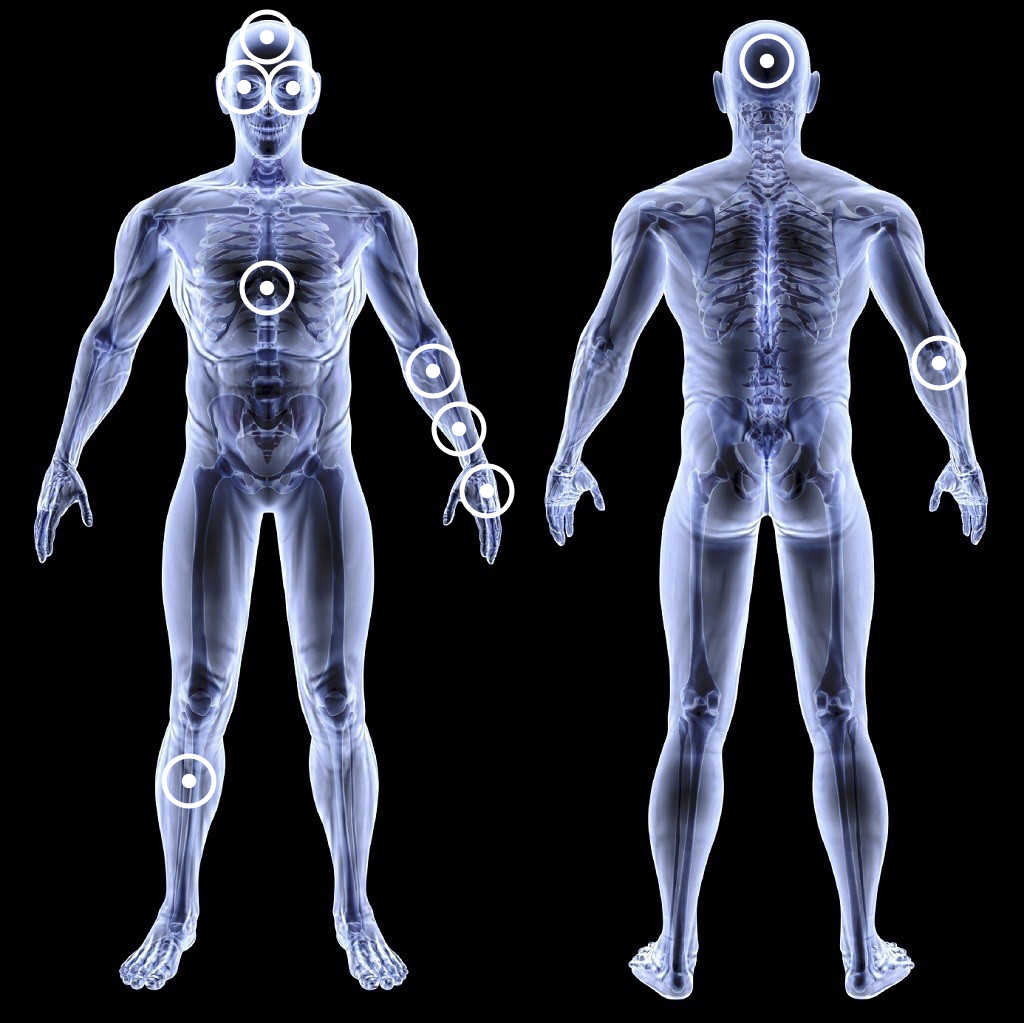
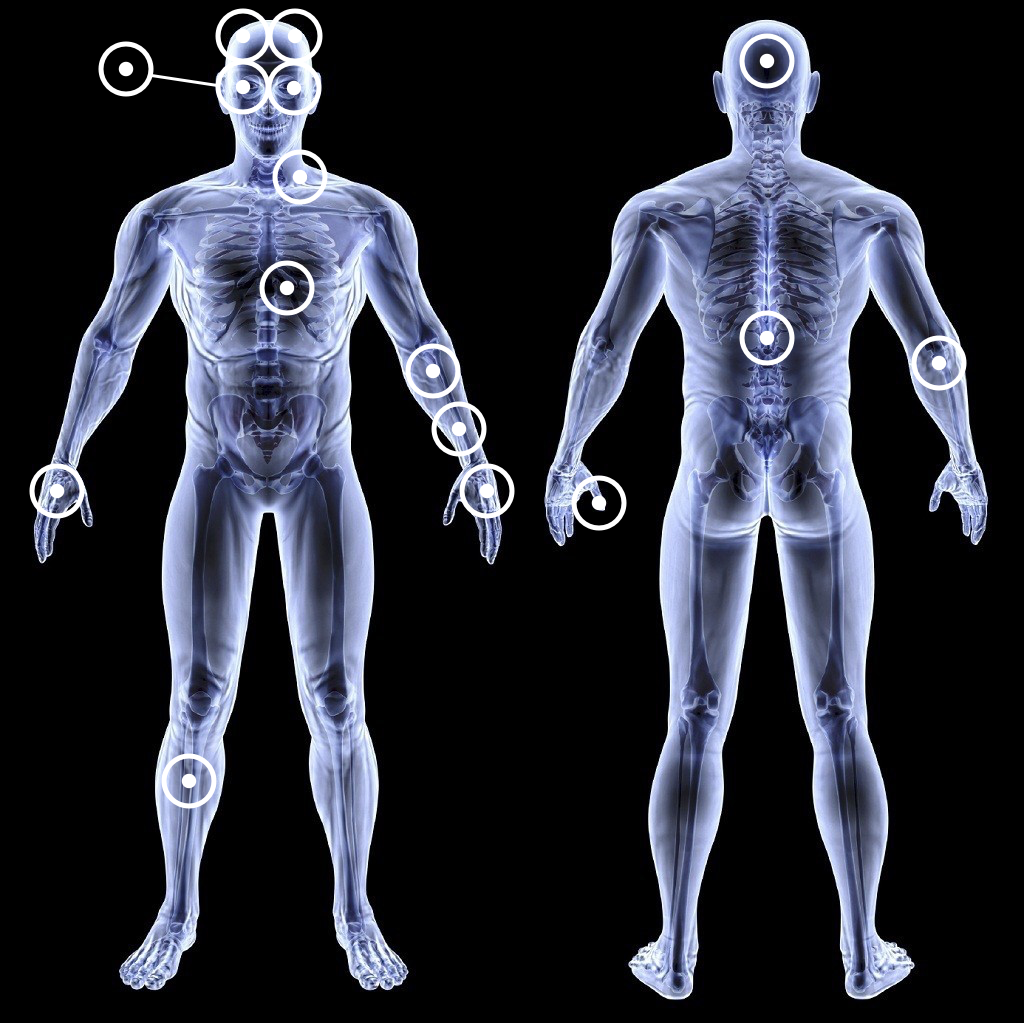
Add new parts to cyborg

diff --git a/index.html b/index.html
@@ -141,91 +141,185 @@
           <figure>
             <img src="img/human-map.png" id="human-map" usemap="#humanMap" />
             <map name="humanMap">
-              <area href="#" data-tooltip-content="#tooltip-brain" coords="240,8,294,61" shape="rect">
-              <area href="#" data-tooltip-content="#tooltip-right-eye" coords="217,62,268,114" shape="rect">
-              <area href="#" data-tooltip-content="#tooltip-left-eye" coords="269,114,320,62" shape="rect">
-              <area href="#" data-tooltip-content="#tooltip-blood" coords="240,316,294,260" shape="rect">
+              <area href="#" data-tooltip-content="#tooltip-eyes1" coords="217,62,268,114" shape="rect">
+              <area href="#" data-tooltip-content="#tooltip-eyes2" coords="269,114,320,62" shape="rect">
+              <area href="#" data-tooltip-content="#tooltip-right-eye" coords="99,42,153,96" shape="rect">
               <area href="#" data-tooltip-content="#tooltip-left-underarm" coords="405,342,460,398" shape="rect">
               <area href="#" data-tooltip-content="#tooltip-left-underarm2" coords="431,456,486,402" shape="rect">
               <area href="#" data-tooltip-content="#tooltip-left-backhand" coords="460,518,514,463" shape="rect">
               <area href="#" data-tooltip-content="#tooltip-right-lowerleg" coords="162,808,217,754" shape="rect">
               <area href="#" data-tooltip-content="#tooltip-back-head" coords="739,89,795,32" shape="rect">
+              <area href="#" data-tooltip-content="#tooltip-brain1" coords="216,8,268,61" shape="rect">
+              <area href="#" data-tooltip-content="#tooltip-brain2" coords="269,62,323,8" shape="rect">
               <area href="#" data-tooltip-content="#tooltip-right-elbow" coords="909,391,968,334" shape="rect">
+              <area href="#" data-tooltip-content="#tooltip-skin" coords="30,464,85,518" shape="rect">
+              <area href="#" data-tooltip-content="#tooltip-heart" coords="259,259,315,316" shape="rect">
+              <area href="#" data-tooltip-content="#tooltip-blood" coords="273,149,327,205" shape="rect">
+              <area href="#" data-tooltip-content="#tooltip-spinal-cord" coords="739,310,795,366" shape="rect">
+              <area href="#" data-tooltip-content="#tooltip-fingertips" coords="571,531,627,475" shape="rect">
             </map>
             <div class="tooltip-templates">
               <span id="tooltip-right-elbow">
                 <img src="img/right-elbow.png" />
                 <div>
                   <h3>Moon Ribas</h3>
-                  <p>Online seismic sensor in elbow that allows to feel earthquakes through vibrations.</p>
+                  <p>
+                    Online seismic sensor in elbow that allows to feel earthquakes through vibrations.
+                    <a href="http://www.moonribas.com" target="_blank">www.moonribas.com</a>
+                  </p>
                 </div>
               </span>
               <span id="tooltip-back-head">
                 <img src="img/back-head.png" />
                 <div>
                   <h3>Neil Harbisson</h3>
-                  <p>Antenna implanted in skull to hear colors. It also includes measurements of electromagnetic radiation, phone calls, music, as well as video or images which are translated into sound.</p>
+                  <p>
+                    Antenna implanted in skull to hear colors. It also includes measurements of electromagnetic radiation, phone calls, music, as well as video or images which are translated into sound.
+                    <a href="http://harbisson.com" target="_blank">www.harbisson.com</a>
+                  </p>
                 </div>
               </span>
               <span id="tooltip-left-underarm">
                 <img src="img/left-underarm.png" />
                 <div>
                   <h3>Tim Cannon</h3>
-                  <p>Grindhouse-designed biometric sensor known as Circadia. The device automatically sent Cannon's temperature to his phone, was powered wirelessly through inductive charging, and mimicked bioluminescence with subdermal LEDs.</p>
+                  <p>
+                    Grindhouse-designed biometric sensor known as Circadia. The device automatically sent Cannon's temperature to his phone, was powered wirelessly through inductive charging, and mimicked bioluminescence with subdermal LEDs.
+                    <a href="http://www.grindhousewetware.com" target="_blank">www.grindhousewetware.com</a>
+                  </p>
                 </div>
               </span>
               <span id="tooltip-left-underarm2">
                 <img src="img/left-underarm2.png" />
                 <div>
                   <h3>Kevin Warwick</h3>
-                  <p>Complex neural interface implanted in his arm, that allows bi-directional communication with a robotic arm and with another implant, connected to his wifes nervous system.</p>
+                  <p>
+                    Complex neural interface implanted in his arm, that allows bi-directional communication with a robotic arm and with another implant, connected to his wifes nervous system.
+                    <a href="http://www.kevinwarwick.com" target="_blank">www.kevinwarwick.com/ </a>
+                  </p>
                 </div>
               </span>
               <span id="tooltip-left-backhand">
                 <img src="img/left-backhand.png" />
                 <div>
                   <h3>Tim Cannon</h3>
-                  <p>Rechargeable device that adds gesture recognition and Bluetooth capabilities, enabling users to control electronic devices with hand movements, as well as add patterns or color variations to LED.</p>
+                  <p>
+                    Rechargeable device that adds gesture recognition and Bluetooth capabilities, enabling users to control electronic devices with hand movements, as well as add patterns or color variations to LED.
+                    <a href="http://www.grindhousewetware.com" target="_blank">www.grindhousewetware.com</a>
+                  </p>
                 </div>
               </span>
-              <span id="tooltip-brain">
+              <span id="tooltip-brain1">
                 <img src="img/brain.png" />
                 <div>
                   <h3>Matt Nagle</h3>
-                  <p>First person to use a brain-computer interface to restore functionality lost due to paralysis. An electrode array was placed on the surface of his brain, which allows him to control an computer or a prosthetic hand.</p>
+                  <p>
+                    First person to use a brain-computer interface to restore functionality lost due to paralysis. An electrode array was placed on the surface of his brain, which allows him to control an computer or a prosthetic hand.
+                  </p>
                 </div>
               </span>
-              <span id="tooltip-left-eye">
-                <img src="img/left-eye.png" />
+              <span id="tooltip-brain2">
+                <div>
+                  <h3>Dr. Theodore Berger, a biomedical engineer at the University of Southern California</h3>
+                  <p>
+                    Is testing a memory-boosting implant that mimics the kind of signal processing that occurs when neurons are laying down new long-term memories. The revolutionary implant, already shown to help memory encoding in rats and monkeys, is now being tested in human patients with epilepsy — an exciting first that may blow the field of memory prosthetics wide open.
+
+                  </p>
+                  <a href="https://singularityhub.com/2015/11/15/first-human-tests-of-memory-boosting-brain-implant-a-big-leap-forward/" target="_blank">www.singularityhub.com</a>
+                </div>
+              </span>
+              <span id="tooltip-eyes1">
+                <img src="img/eyes1.png" />
                 <div>
                   <h3>Gabriel Licina</h3>
-                  <p>Used eyedrops which gives him short-time night vision. It has to be improved and tested, because it affects day vision.</p>
+                  <p>
+                    Used eyedrops which gives him short-time night vision. It has to be improved and tested, because it affects day vision.
+                    <a href="http://www.nydailynews.com/news/national/group-biohackers-test-eye-drops-give-night-vision-article-1.2174261" target="_blank">www.nydailynews.com</a>
+                  </p>
+                </div>
+              </span>
+              <span id="tooltip-eyes2">
+                <img src="img/eyes2.png" />
+                <div>
+                  <h3>Google (Google X)</h3>
+                  <p>
+                    The Google Contact Lens is able to measure the glucose levels of diabetes patients. It works with a wireless chip and a glucose sensor. Data and power is transmitted wirelessly by RFID. LEDs are planned to indicate critical glucose levels.
+                    <a href="https://germany.googleblog.com/2014/01/projekt-smart-contact-lens.html" target="_blank">www.germany.googleblog.com</a>
+                    <a href="https://en.wikipedia.org/wiki/Google_Contact_Lens" target="_blank">www.wikipedia.org</a>
+                  </p>
                 </div>
               </span>
               <span id="tooltip-right-eye">
                 <img src="img/right-eye.png" />
                 <div>
                   <h3>Rob Spence</h3>
-                  <p>The prosthetic eye is embedded with a wireless video camera in it. It fits like an usual false eye into the eye shell.</p>
+                  <p>
+                    The prosthetic eye is embedded with a wireless video camera in it. It fits like an usual false eye into the eye shell.
+                    <a href="http://eyeborgproject.tv/" target="_blank">www.eyeborgproject.tv</a>
+                  </p>
                 </div>
               </span>
               <span id="tooltip-right-lowerleg">
                 <img src="img/right-lowerleg.png" />
                 <div>
                   <h3>Hugh Herr</h3>
-                  <p>Prostheses, which are specialized for climbing. They are not only designed with high toe stiffness and spikes, but they also can change their length.</p>
+                  <p>
+                    Prostheses, which are specialized for climbing. They are not only designed with high toe stiffness and spikes, but they also can change their length.
+                    <a href="https://www.media.mit.edu/people/hherr/overview" target="_blank">www.media.mit.edu</a>
+                  </p>
                 </div>
               </span>
               <span id="tooltip-blood">
                 <img src="img/blood.jpg" />
                 <div>
                   <h3>Ambrosia</h3>
-                  <p>Ambrosia is a startup, which studies the effects of transfusions of young blood plasma. It offers the transfusion of blood plasma from teenagers and young adults.</p>
+                  <p>
+                    Ambrosia is a startup, which studies the effects of transfusions of young blood plasma. It offers the transfusion of blood plasma from teenagers and young adults.
+                    <a href="https://www.ambrosiaplasma.com" target="_blank">www.ambrosiaplasma.com</a>
+                  </p>
+                </div>
+              </span>
+              <span id="tooltip-skin">
+                <img src="img/skin.png" />
+                <div>
+                  <h3>University of Tokyo (Takao Someya)</h3>
+                  <p>
+                    Electronic scin, either tattooed onto our bodies or sewn into our clothes, could be used to monitor vital signs, detect tumors or a sensor for prosthetics.
+                    <a href="http://edition.cnn.com/2016/05/17/health/frontiers-takao-someya-eskin/index.html" target="_blank">www.edition.cnn.com</a>
+                  </p>
+                </div>
+              </span>
+              <span id="tooltip-spinal-cord">
+                <img src="img/spinal-cord.png" />
+                <div>
+                  <h3>Ecole polytechnique federale de Lausanne, Switzerland</h3>
+                  <p>
+                    Neural implant for spinal chord that reenables transmission on damaged spinal chord. Tested on a rat.
+                    <a href="https://www.facebook.com/ScienceNaturePage/videos/810586075740319/" target="_blank">www.facebook.com</a>
+                    <a href="http://science.sciencemag.org/content/347/6218/159" target="_blank">www.science.sciencemag.org</a>
+                  </p>
+                </div>
+              </span>
+              <span id="tooltip-heart">
+                <div>
+                  <h3>Tim Cannon</h3>
+                  <p>
+                    Future vision of Grindhouse Wetware: "[...] we're going into a project called Open Heart. We want to make the first optionally replaceable heart. So, people will be able to say, I'm 30. This thing is going to go bad eventually. [...] Just chuck this one in the garbage and give me the good stuff. It's ambitious. It will take a long time and we want to do it open source with 3D printed parts and make it really low cost."
+                  </p>
+                </div>
+              </span>
+              <span id="tooltip-fingertips">
+                <img src="img/fingertips.jpg" />
+                <div>
+                  <h3>Fingertips</h3>
+                  <p>
+                    Though magnetic implants can be used to pick up small metal objects, the main purpose of getting an implant is in order to gain sensory perception of magnetic fields. After a magnet is implanted underneath the epidermal layer of the skin, nerves grow around the magnet as the skin heals. The magnet pushes against magnetic fields produced by electronic devices in the surrounding area, pushing against the nerves and giving a "sixth sense" of magnetic vision.
+                  </p>
                 </div>
               </span>
             </div>
             <figcaption>
-              Hover over the body parts to find out more information about modifying that part.
+              Click on the body parts to find out more information about modifying that part.
             </figcaption>
           </figure>
         </section>

diff --git a/main.js b/main.js
@@ -92,6 +92,7 @@ function scrollTo (element, target) {
 
 $('map area').tooltipster({
   theme: 'tooltipster-light',
+  interactive: true,
   trigger: 'click',
   maxWidth: '320'
 })
